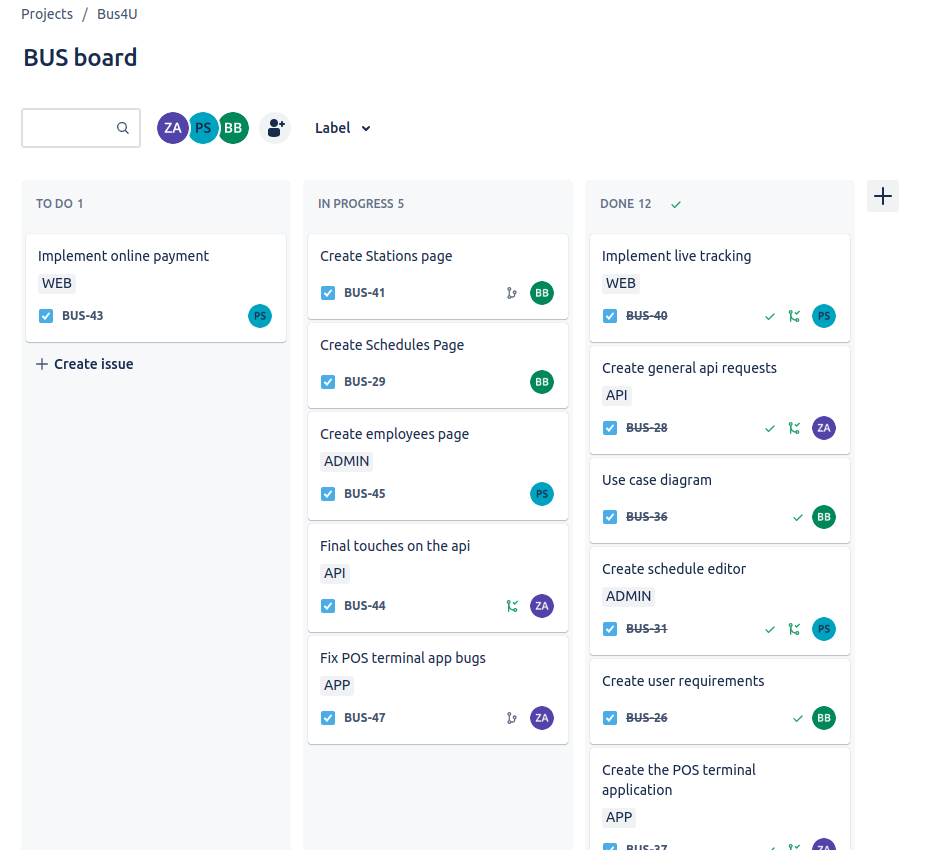
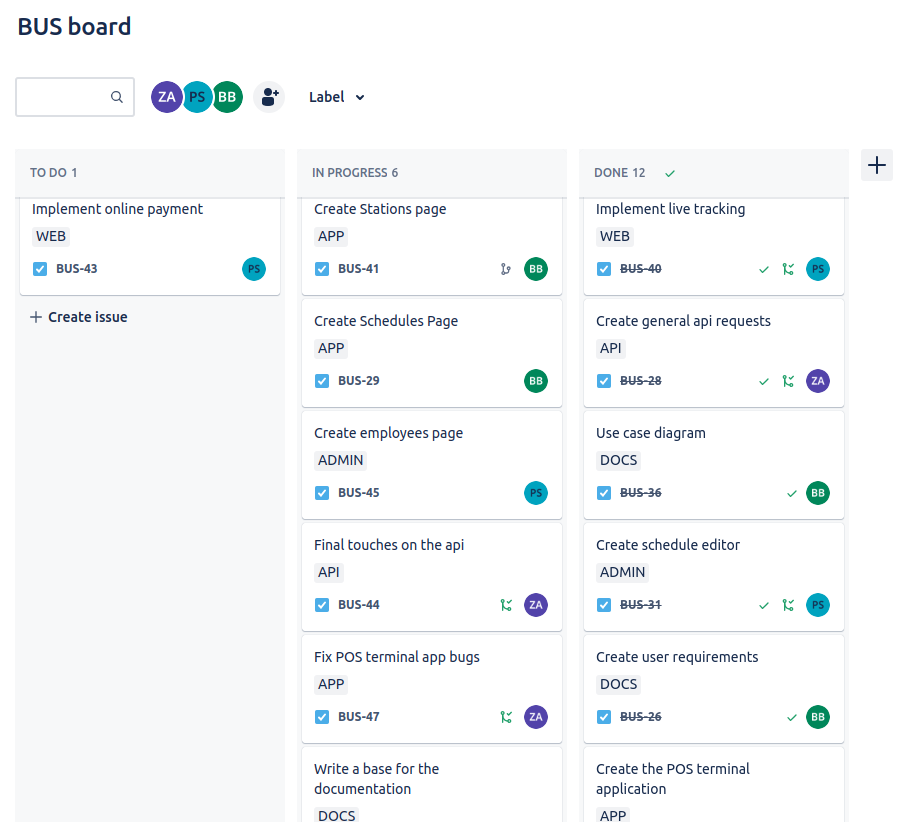
created admin homepage reqest

diff --git a/API/app/controllers/v1/admin/admin_controller.rb b/API/app/controllers/v1/admin/admin_controller.rb
@@ -1,5 +1,47 @@
 class V1::Admin::AdminController < ApplicationController
 
+    # Statistics data for the homepage
+    def statistics
+        company = Company.find_by(company_uid: params[:company_uid])
+        tickets = Ticket.find_by(company_uid: company.company_uid)
+
+        month_tickets = 0
+        month_users = 0
+        month_income = 0
+        year_tickets = 0
+        year_users = 0
+        year_income = 0
+        all_tickets = 0
+        all_users = 0
+        all_income = 0
+
+        all_tickets = tickets.count
+        all_income = tickets.sum(&:price)
+        all_users = tickets.map(&:user_uid).uniq.count
+
+        year_tickets = tickets.count { |ticket| ticket.date_of_purchase >= Time.now - 1.year }
+        year_income = tickets.select { |ticket| ticket.date_of_purchase >= Time.now - 1.year }.sum(&:price)
+        year_users = tickets.select { |ticket| ticket.date_of_purchase >= Time.now - 1.year }.map(&:user_uid).uniq.count
+
+        month_tickets = tickets.count { |ticket| ticket.date_of_purchase >= Time.now - 1.month }
+        month_income = tickets.select { |ticket| ticket.date_of_purchase >= Time.now - 1.month }.sum(&:price)
+        month_users = tickets.select { |ticket| ticket.date_of_purchase >= Time.now - 1.month }.map(&:user_uid).uniq.count
+
+        render json: {
+            month_tickets: month_tickets,
+            month_income: month_income,
+            month_users: month_users,
+            year_tickets: year_tickets,
+            year_income: year_income,
+            year_users: year_users,
+            all_tickets: all_tickets,
+            all_income: all_income,
+            all_users: all_users
+        }
+
+    end
+
+    # Check the validity of road_taxes, insurances and technical_exams
     def document_validity_checker
         road_taxes = []
         insurances = []
